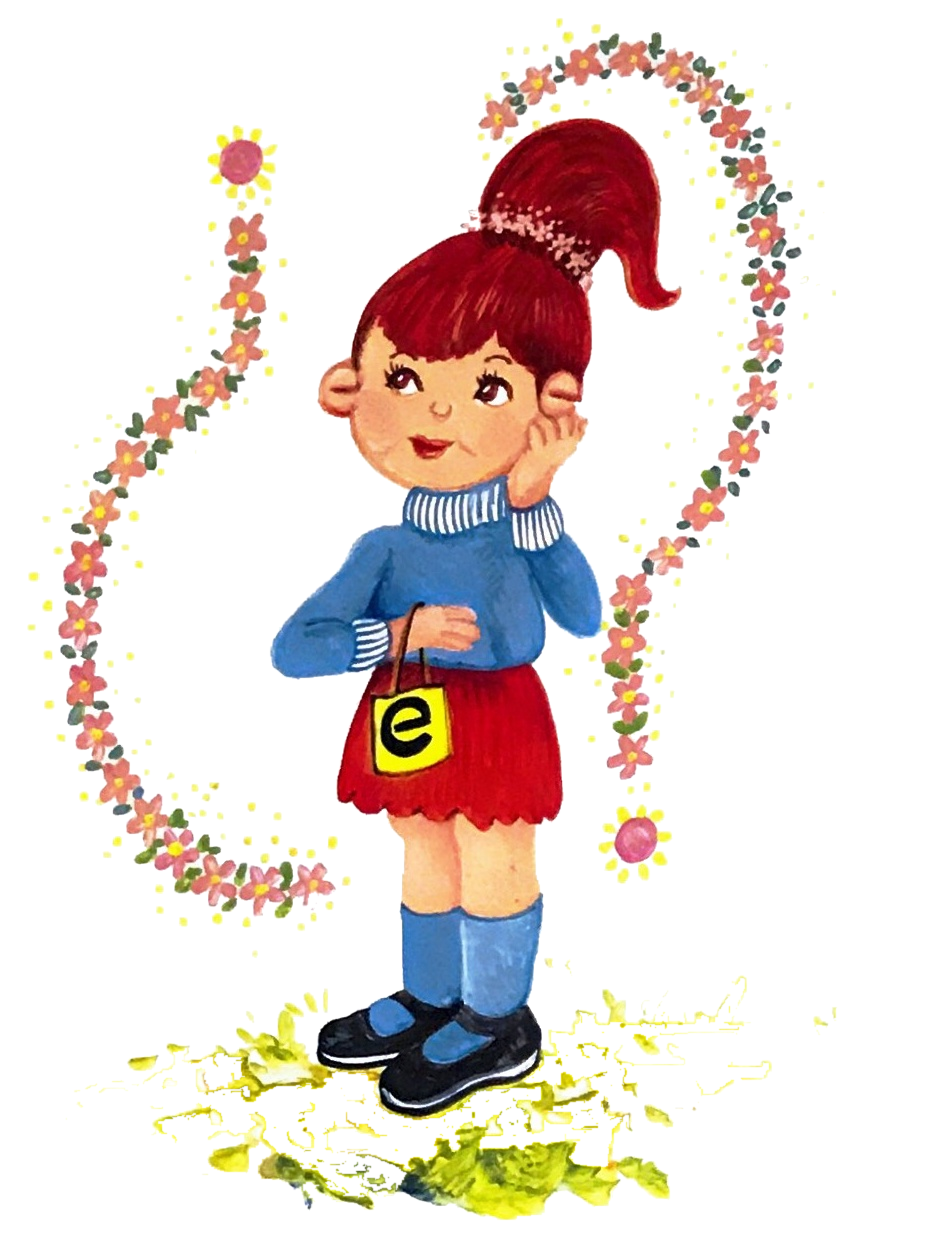
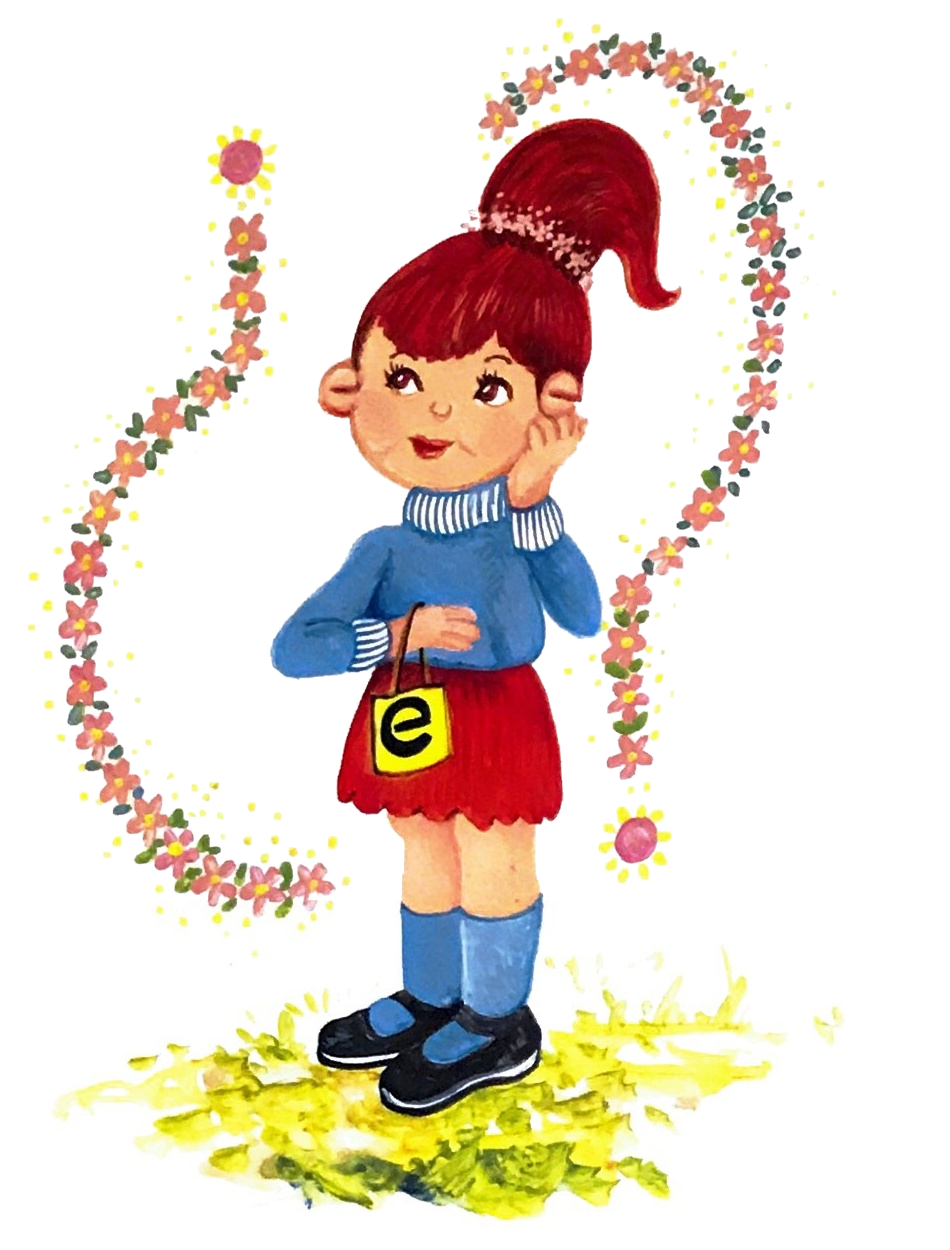
fix(art): restore original Lesson 4 ground lost to alpha isolation

Changed region(s): [[0.0611, 0.7488, 0.8242, 0.9672], [0.8547, 0.8112, 0.8853, 0.8424], [0.58, 0.7488, 0.6105, 0.78]]

diff --git a/docs/proofs/m7-m8-m9-verification/continuation/restore-lesson4-ground.py b/docs/proofs/m7-m8-m9-verification/continuation/restore-lesson4-ground.py
@@ -1,0 +1,35 @@
+"""Restore the source-painted ground erased by the earlier alpha isolation.
+
+No drawing is inferred: copy the decoded, source-backed JPEG95 crop's complete
+bottom band, y=900..1250, as opaque source pixels. The independent review
+confirmed that this band contains shoes/grass/paper and no neighboring caption.
+"""
+import argparse,hashlib,io,json,subprocess
+from pathlib import Path
+from PIL import Image
+import numpy as np
+import pymupdf
+
+p=argparse.ArgumentParser();p.add_argument('--pdf',required=True);p.add_argument('--repo',default='.');a=p.parse_args()
+repo=Path(a.repo);pdf=Path(a.pdf)
[1 lines of base64/hex data omitted]
+doc=pymupdf.open(pdf);raw=doc.extract_image(doc[5].get_images(full=True)[0][0])['image']
+crop=Image.open(io.BytesIO(raw)).convert('RGB').crop((100,100,1050,1350))
+encoded=io.BytesIO();crop.save(encoded,format='JPEG',quality=95)
[1 lines of base64/hex data omitted]
+source=Image.open(io.BytesIO(encoded.getvalue())).convert('RGBA')
+rel='public/cartilla/art/optimized/flipchart-native/p006-scene.png'
+oldbytes=subprocess.check_output(['git','show','d613b78ba553c3c5786afdf7d589305a3080f1cf:'+rel],cwd=repo)
+before=Image.open(io.BytesIO(oldbytes)).convert('RGBA');after=before.copy()
+after.paste(source.crop((0,900,950,1250)),(0,900))
+old=np.array(before);new=np.array(after);src=np.array(source)
+assert np.array_equal(new[:900],old[:900])
+assert np.array_equal(new[900:],src[900:])
+after.save(repo/rel)
+after.save((repo/rel).with_suffix('.webp'),format='WEBP',lossless=True)
+decoded=np.array(Image.open((repo/rel).with_suffix('.webp')).convert('RGBA'))
+assert np.array_equal(decoded[900:],src[900:])
+sha=lambda data:hashlib.sha256(data).hexdigest()
+result={'baselineHead':'d613b78ba553c3c5786afdf7d589305a3080f1cf','sourcePdfSha256':sha(pdf.read_bytes()),'sourceCropLTRB':[100,100,1050,1350],'intermediateJpegSha256':sha(encoded.getvalue()),'restoredOpaqueSourceBandLTRB':[0,900,950,1250],'unchangedPixelsAboveBand':True,'restoredBandExactRgbaToSourceIntermediate':True,'webpRestoredBandExactRgbaToSourceIntermediate':True,'previouslyFullyTransparentPixelsRestored':int((old[900:,:,3]==0).sum()),'sourceOriginalRgbExact':False,'reason':'Earlier alpha isolation deleted source-painted pale ground. Opaque source paper blends using existing multiply; no hidden pixels inferred.','outputs':{rel:sha((repo/rel).read_bytes()),rel.replace('.png','.webp'):sha((repo/rel).with_suffix('.webp').read_bytes())}}
+(repo/'docs/proofs/m7-m8-m9-verification/continuation/lesson4-ground-restoration.json').write_text(json.dumps(result,indent=2)+'\n')
+print(json.dumps(result,indent=2))
